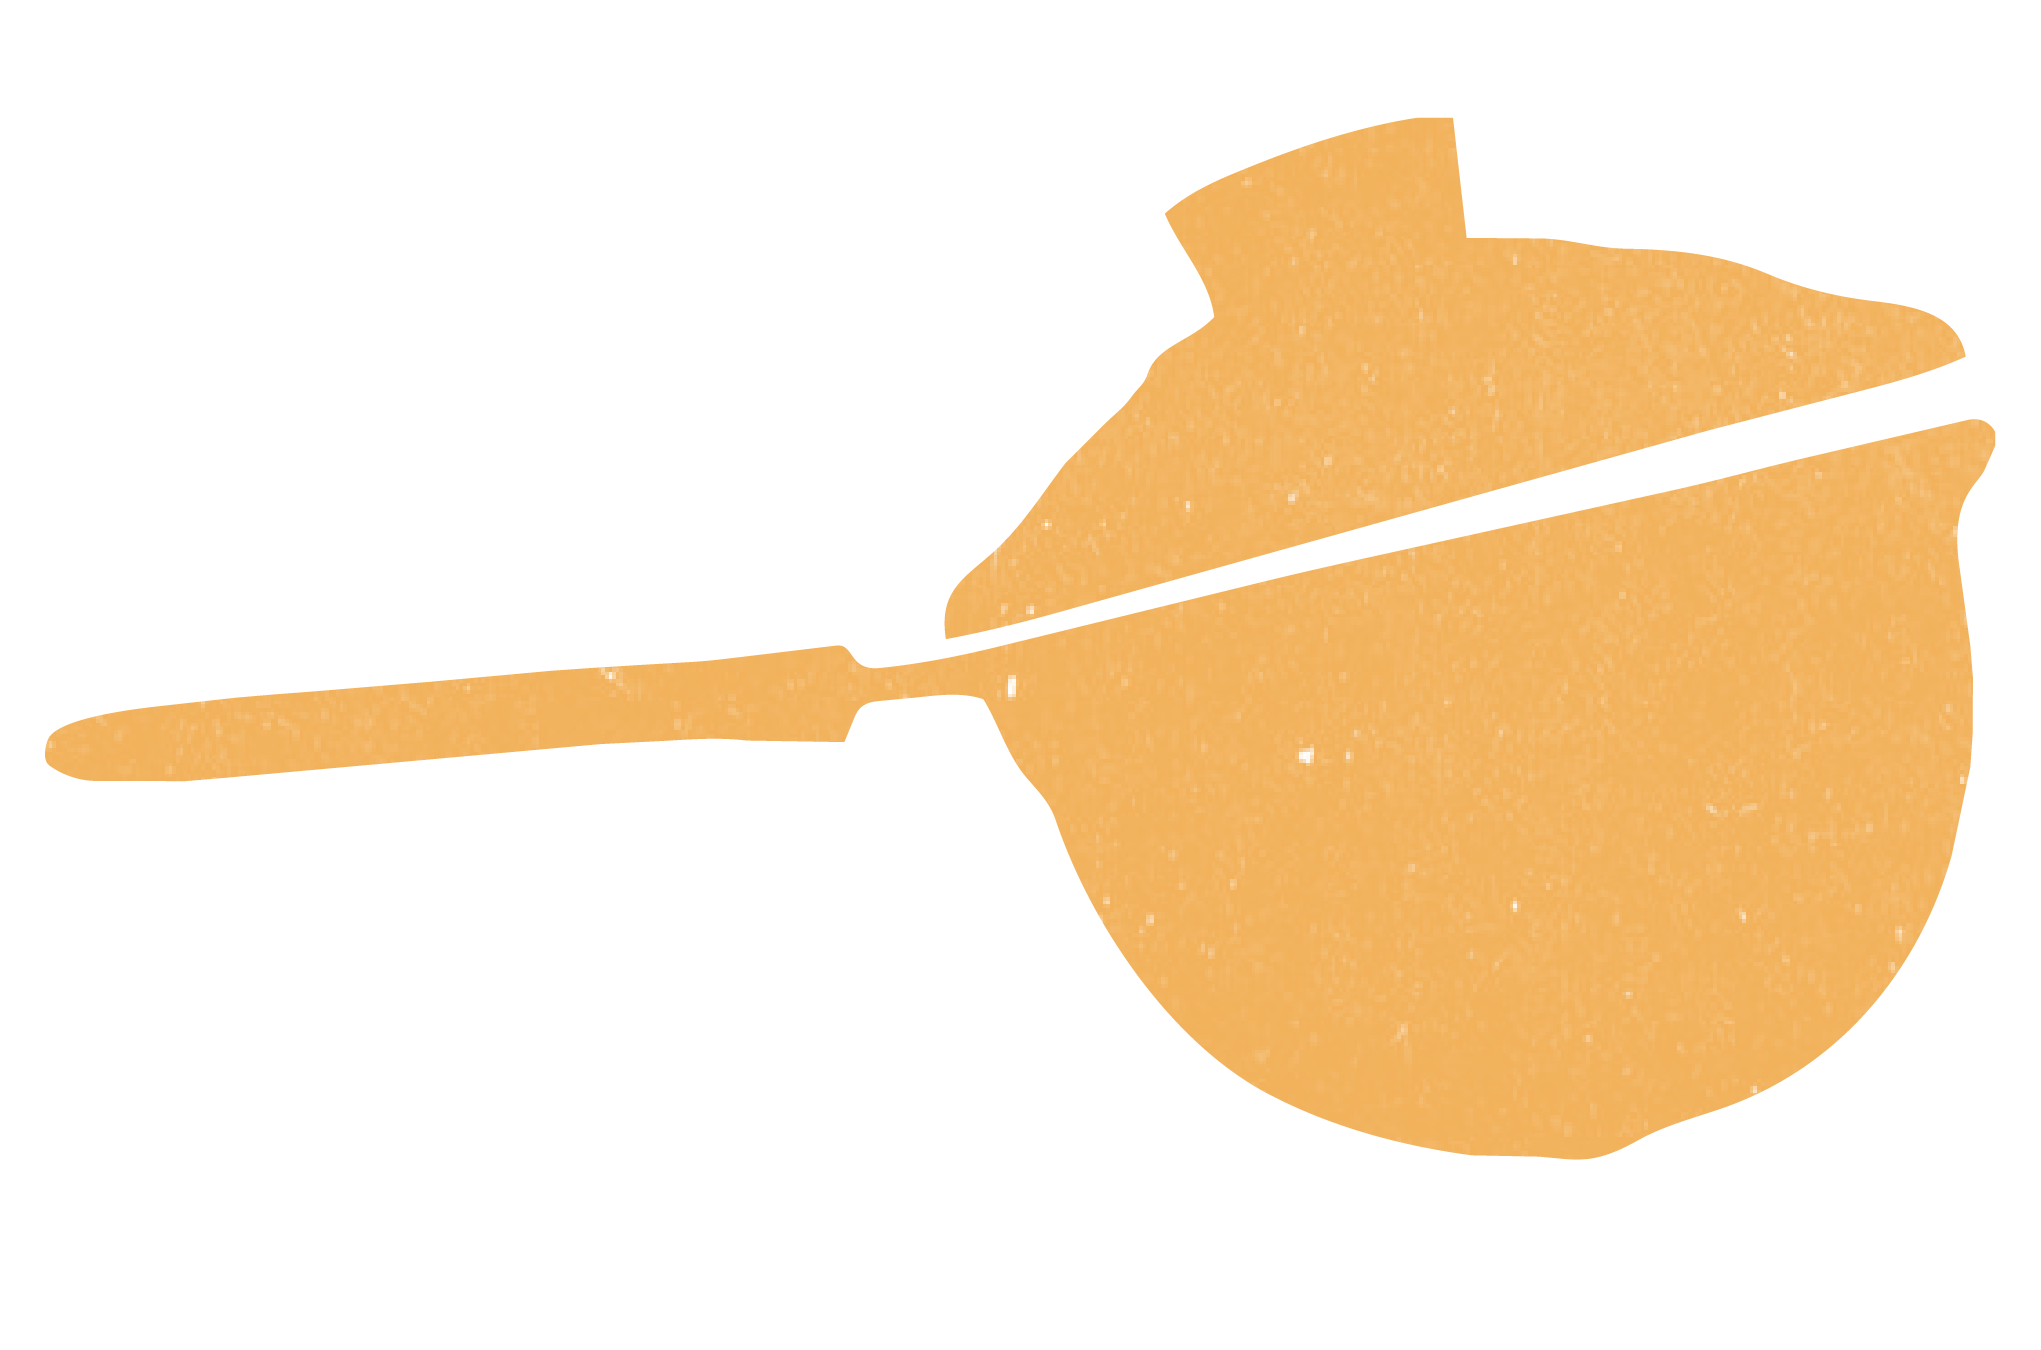
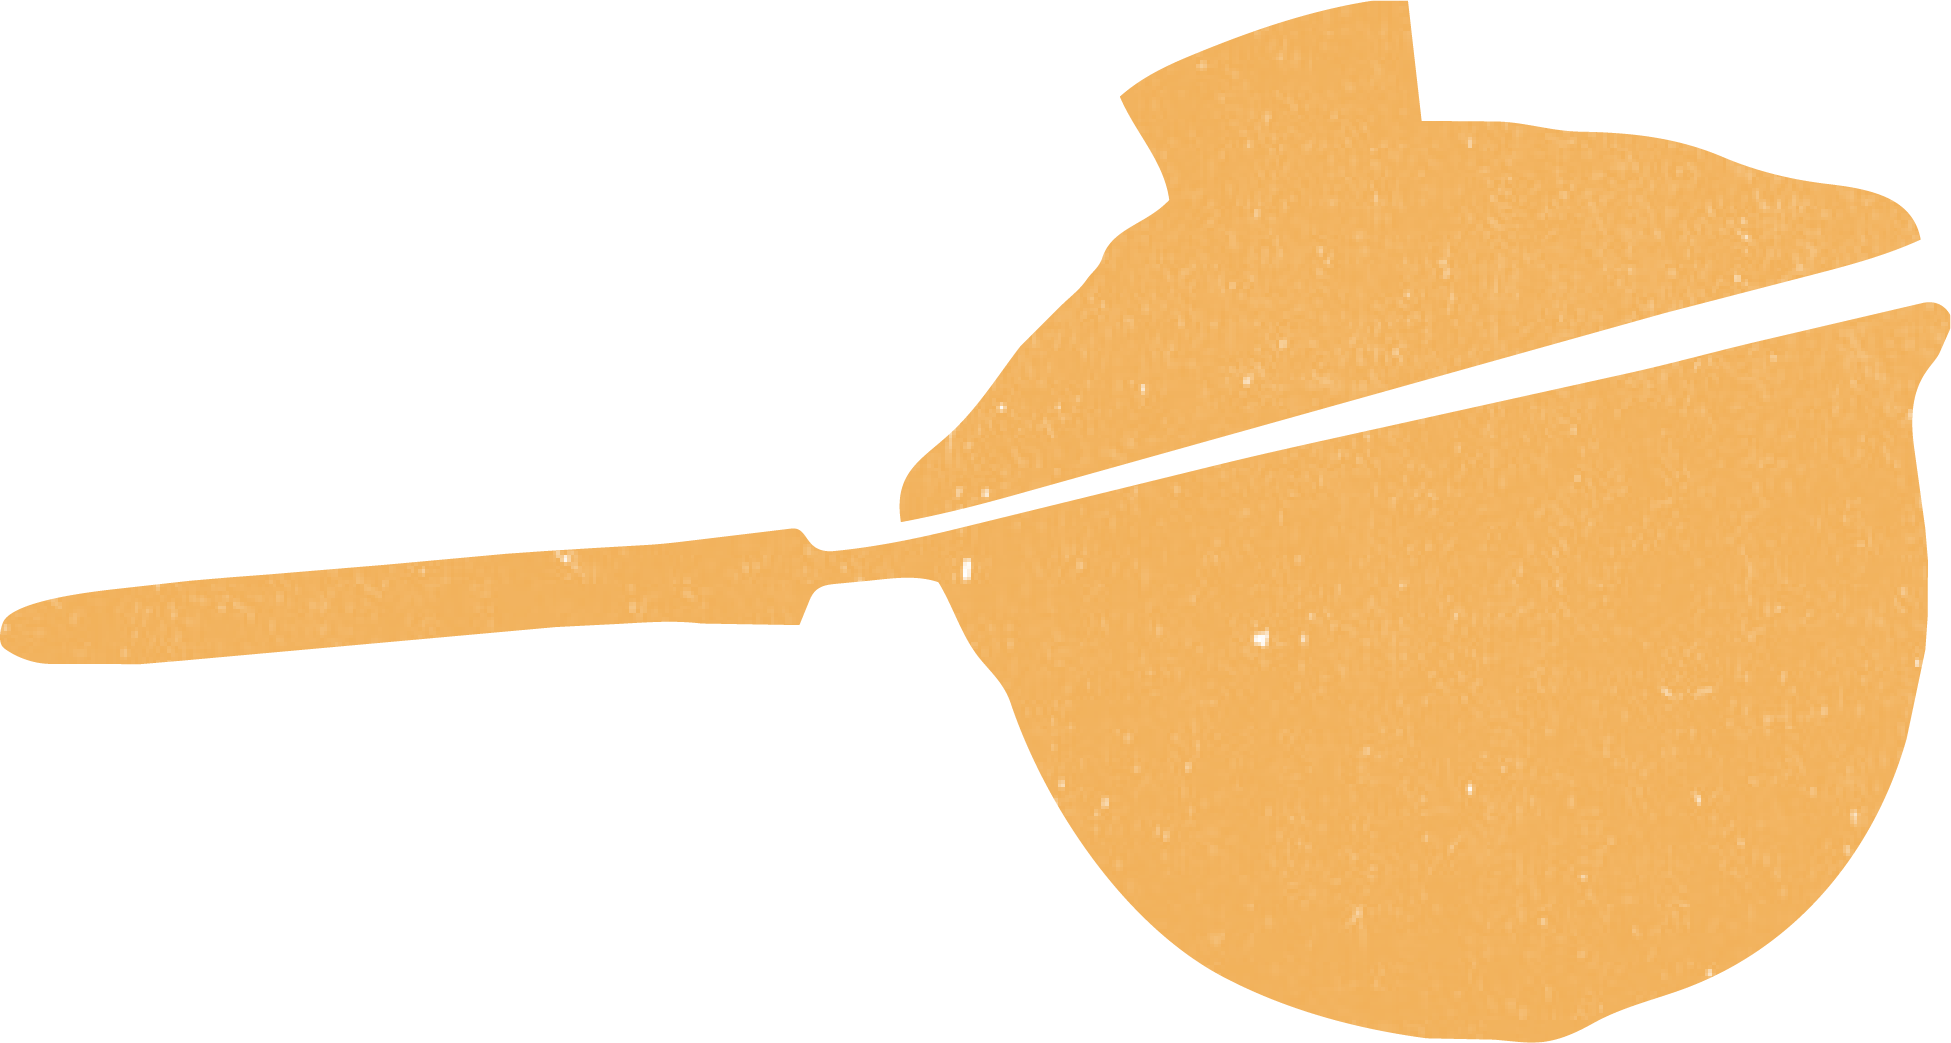
feat: topo da hero no desktop com texturas e avanço da edition (#28)
* refactor: update Hero component layout and remove unused imports

* feat: add translucent fava beans texture and update Hero component layout

* feat: add supporters intro with leaf plate

* feat: add brand invite sign to supporters

* feat: add BottomPanels, CashewCluster, ContentBand, SunflowerTexture, and TopPanels components

* refactor: simplify Hero component layout and comment out unused imports

* refactor: simplify Hero component structure and remove unnecessary div

* refactor: update layout and structure of Hero, ContentBand, and Edition components

* refactor: restructure Edition component layout and remove unnecessary div

* refactor: enhance layout of Edition, BottomPanels, and ContentBand components

* refactor: remove unnecessary z-index from BottomPanels and ContentBand components

* chore: update cutlery illustration image

* refactor: update z-index and height of BottomPanels and fix layout in Edition component

* style: add damasco color variable to theme

* style: add z-index and scale to logo image in ContentBand

* feat: add TablePanel component with layout and content

* style: add overflow-x-hidden to main div in Home component

* feat: add WideButton component and replace link with button in ContentBand

* feat: add Nunito font and update layout and globals for font integration

* chore: update pot illustration image

* style: resize hero panels and reposition illustrations

* style: adjust content band offset and fava beans texture zoom
[…]

Changed region(s): [[0.0, 0.0, 1.0, 1.0], [0.8611, 0.3375, 0.8919, 0.3682]]

diff --git a/components/sections/hero/ContentBand.tsx b/components/sections/hero/ContentBand.tsx
@@ -1,0 +1,61 @@
+import Image from "next/image";
+
+import { MainButton } from "@/components/ui/MainButton";
+import { hero } from "@/content/hero";
+
+export function ContentBand() {
+  return (
+    <div className="absolute right-0 z-60 grid min-h-128 w-full -translate-y-[calc(2.5rem+5%)] grid-cols-1 gap-6 px-6 py-8 sm:w-6/7 sm:grid-cols-2 sm:gap-8 sm:px-8 md:min-h-144 md:px-10 md:py-10 lg:flex lg:w-6/7 lg:gap-0 lg:px-0 lg:py-0">
+      <div
+        aria-hidden
+        className="absolute inset-0 -z-10 bg-cenoura filter-[url(#hero-panels-texture)]"
+      />
+      <div className="pointer-events-none absolute inset-0 -z-10 bg-[url('/images/textures/fava-beans.png')] bg-size-[28.75%_auto] bg-center bg-repeat opacity-[0.06]"></div>
+      <div className="col-span-1 flex h-32 items-center justify-center sm:col-span-2 sm:h-40 md:h-48 lg:col-span-1 lg:h-auto lg:w-[30%]">
+        <Image
+          src="/images/logo.png"
+          alt="Café com Case à Mesa"
+          width={800}
+          height={800}
+          className="h-full w-auto scale-110 object-contain"
+        />
+      </div>
+      <article className="flex min-w-0 flex-col justify-between gap-6 text-pepino sm:px-2 md:gap-8 lg:w-[28%] lg:px-10 lg:py-16">
+        <h1 className="text-2xl leading-snug font-medium md:text-3xl">
+          {hero.lead.before}
+          <strong>{hero.lead.strong}</strong>
+          {hero.lead.after}
+        </h1>
+        <p className="font-alternates text-xl font-semibold italic md:text-2xl">
+          <span className="block text-left">{hero.tagline[0]}</span>
+          <span className="block text-right">{hero.tagline[1]}</span>
+        </p>
+      </article>
+      <article className="flex min-w-0 flex-col justify-between gap-6 text-sm text-pepino md:text-base lg:w-[24%] lg:gap-8 lg:px-10 lg:py-16">
+        <div className="space-y-4">
+          {hero.description.map((paragraph) => (
+            <p key={paragraph.slice(0, 24)} className="font-bold">
+              {paragraph}
+            </p>
+          ))}
+        </div>
+        <MainButton
+          href={hero.instagramUrl}
+          target="_blank"
+          rel="noopener noreferrer"
+        >
+          {hero.cta}
+        </MainButton>
+      </article>
+      <div className="relative hidden items-start justify-center overflow-hidden lg:flex lg:w-[18%] lg:px-4 lg:py-16">
+        <Image
+          src="/images/illustrations/kettle.png"
+          alt=""
+          width={400}
+          height={400}
+          className="h-[120%] w-auto max-w-none translate-x-[30%]"
+        />
+      </div>
+    </div>
+  );
+}

diff --git a/components/sections/edition/TablePanel.tsx b/components/sections/edition/TablePanel.tsx
@@ -1,0 +1,33 @@
+import Image from "next/image";
+
+import { edition } from "@/content/edition";
+
+export function TablePanel() {
+  return (
+    <div className="relative w-full lg:absolute lg:-top-75 lg:-right-18 lg:bottom-11/21 lg:w-5/7">
+      <aside className="relative flex h-full w-full items-center overflow-hidden py-10 pl-6 [clip-path:polygon(0_0,100%_0,100%_100%,1.5rem_100%)] lg:py-0 lg:pl-25 lg:[clip-path:polygon(0_0,100%_0,100%_100%,6rem_100%)]">
+        <div
+          aria-hidden
+          className="absolute inset-0 bg-pepino filter-[url(#edition-texture)] [clip-path:polygon(0_0,100%_0,100%_100%,1.5rem_100%)] lg:[clip-path:polygon(0_0,100%_0,100%_100%,6rem_100%)]"
+        />
+        <article className="relative flex flex-col gap-6 pr-4 text-damasco lg:w-4/7">
+          <h3 className="font-alternates text-4xl font-black lg:text-5xl">
+            {edition.tableTitle}
+          </h3>
+          <div className="grid grid-cols-1 gap-6 text-lg font-semibold md:grid-cols-2 lg:flex lg:gap-15 lg:text-xl">
+            {edition.tableParagraphs.map((paragraph) => (
+              <p key={paragraph.slice(0, 24)}>{paragraph}</p>
+            ))}
+          </div>
+        </article>
+      </aside>
+      <Image
+        src="/images/illustrations/cutlery.png"
+        alt=""
+        width={796}
+        height={1178}
+        className="absolute right-0 bottom-0 hidden h-[80%] w-auto max-w-none translate-x-[8%] translate-y-[5%] lg:block"
+      />
+    </div>
+  );
+}

diff --git a/components/sections/hero/BottomPanels.tsx b/components/sections/hero/BottomPanels.tsx
@@ -1,0 +1,36 @@
+import Image from "next/image";
+
+export function BottomPanels() {
+  return (
+    <div className="absolute bottom-0 z-20 flex h-1/3 w-full items-end">
+      <div className="relative h-[110%] w-1/4">
+        <div
+          aria-hidden
+          className="absolute inset-0 bg-azul [clip-path:polygon(0_1.5rem,100%_0,100%_100%,0_100%)] [filter:url(#hero-panels-texture)]"
+        />
+        <Image
+          src="/images/illustrations/fish.png"
+          alt=""
+          width={600}
+          height={400}
+          className="absolute inset-0 m-auto h-4/7 w-[72%] translate-y-10 -rotate-10 object-contain"
+        />
+      </div>
+      <div className="absolute left-3/13 h-[82.5%] w-1/3">
+        <div
+          aria-hidden
+          className="absolute inset-0 bg-tomate [clip-path:polygon(0_0,100%_3.5rem,100%_100%,0_100%)] [filter:url(#hero-panels-texture)]"
+        />
+        <div className="absolute inset-0 overflow-hidden [clip-path:polygon(0_0,100%_3.5rem,100%_100%,0_100%)]">
+          <Image
+            src="/images/illustrations/pot.png"
+            alt=""
+            width={600}
+            height={400}
+            className="absolute top-1/3 right-10 h-[69.2%] w-auto translate-x-[-15%] translate-y-[-15%] rotate-8 object-contain"
+          />
+        </div>
+      </div>
+    </div>
+  );
+}

diff --git a/components/sections/hero/Hero.tsx b/components/sections/hero/Hero.tsx
@@ -1,10 +1,30 @@
-import { hero } from "@/content/hero";
+import { BigButton } from "@/components/ui/BigButton";
+import { FaqLettering } from "@/components/ui/FaqLettering";
+import { TextureFilter } from "@/components/ui/TextureFilter";
+import { BottomPanels } from "./BottomPanels";
+import { ContentBand } from "./ContentBand";
+import { SunflowerTexture } from "./SunflowerTexture";
+import { TopPanels } from "./TopPanels";
 
-// Hero: issues #5 (desktop), #12 (mobile)
 export function Hero() {
   return (
-    <section id="hero">
-      <p>{hero.title}</p>
+    <section className="relative flex min-h-[max(120vh,64rem)] w-full items-center overflow-hidden">
+      <SunflowerTexture />
+      <TopPanels />
+      <BottomPanels />
+      <div className="absolute top-10 right-0 z-30">
+        <BigButton href="/faq" aria-label="FAQ">
+          <span className="block size-full text-pepino group-hover:text-areia group-focus-visible:text-areia">
+            <FaqLettering />
+          </span>
+        </BigButton>
+      </div>
+      <ContentBand />
+      <svg aria-hidden className="absolute size-0">
+        <defs>
+          <TextureFilter id="hero-panels-texture" radius={10} size={16} />
+        </defs>
+      </svg>
     </section>
   );
 }

diff --git a/content/edition.ts b/content/edition.ts
@@ -1,4 +1,17 @@
 // 13th Edition copy. Text shown on the site stays in Portuguese.
 export const edition = {
   title: "13ª Edição",
+  tableTitle: "A mesa está posta!",
+  tableParagraphs: [
+    "Em sua 13ª edição, o Café com Case parte do Direito Humano à Alimentação Adequada para discutir como a comunicação constrói narrativas e sentidos sobre o acesso à alimentação.",
+    "A proposta é olhar para além do prato e perceber as histórias, os territórios e as pessoas que sustentam cada refeição.",
+  ],
+  beanHighlight: "mas a conversa vai muito além do que chega ao prato.",
+  beanText:
+    "O conceito da edição convida a pensar: o que existe por trás de cada refeição? A partir desse questionamento, buscamos levar o público a entender o que acontece por trás de cada refeição, cada escolha e cada realidade.",
+  ctaHighlight: "alimentação, o direito e a cultura",
+  ctaText:
+    "E não acaba por aqui! Descubra o que mais acontece no Café com Case.",
+  cta: "Conheça mais",
+  instagramUrl: "https://www.instagram.com/cafecomcase/",
 };

diff --git a/components/sections/edition/BeanPanel.tsx b/components/sections/edition/BeanPanel.tsx
@@ -1,0 +1,25 @@
+import Image from "next/image";
+
+import { edition } from "@/content/edition";
+
+export function BeanPanel() {
+  return (
+    <div className="relative w-full overflow-hidden lg:absolute lg:top-[30%] lg:left-0 lg:h-[70%] lg:w-[60%] lg:overflow-visible">
+      <article className="relative z-10 flex flex-col gap-6 p-6 text-damasco lg:absolute lg:top-[15%] lg:right-[18%] lg:left-auto lg:w-[48%] lg:translate-x-[5%] lg:gap-14 lg:p-0">
+        <p className="font-alternates text-3xl font-black lg:text-5xl">
+          {edition.beanHighlight}
+        </p>
+        <p className="text-lg font-semibold lg:w-[67.5%] lg:self-end lg:text-left">
+          {edition.beanText}
+        </p>
+      </article>
+      <Image
+        src="/images/illustrations/brown-shape.png"
+        alt=""
+        width={1189}
+        height={1174}
+        className="h-72 w-full object-cover object-center lg:h-full lg:max-w-none lg:-translate-x-1/10 lg:translate-y-[5%] lg:scale-120 lg:-rotate-8 lg:zoom-[1.1]"
+      />
+    </div>
+  );
+}

diff --git a/components/sections/hero/TopPanels.tsx b/components/sections/hero/TopPanels.tsx
@@ -1,0 +1,30 @@
+import Image from "next/image";
+
+import { CashewCluster } from "./CashewCluster";
+
+export function TopPanels() {
+  return (
+    <div className="absolute top-0 left-0 flex h-full w-full">
+      <div className="relative h-full w-1/6">
+        <div
+          aria-hidden
+          className="absolute inset-0 bg-pepino [filter:url(#hero-panels-texture)]"
+        />
+        <CashewCluster />
+      </div>
+      <div className="relative h-full w-1/3">
+        <div
+          aria-hidden
+          className="absolute inset-0 bg-cafe [filter:url(#hero-panels-texture)]"
+        />
+        <Image
+          src="/images/illustrations/cup.png"
+          alt=""
+          width={400}
+          height={400}
+          className="absolute -top-4 right-6 h-[25.2%] w-[37.8%] -scale-x-100 object-contain"
+        />
+      </div>
+    </div>
+  );
+}

diff --git a/components/sections/edition/Edition.tsx b/components/sections/edition/Edition.tsx
@@ -1,10 +1,19 @@
-import { edition } from "@/content/edition";
+import { BeanPanel } from "./BeanPanel";
+import { CtaArticle } from "./CtaArticle";
+import { EditionHeading } from "./EditionHeading";
+import { TablePanel } from "./TablePanel";
 
-// 13th Edition: issues #6 (desktop), #13 (mobile)
 export function Edition() {
   return (
     <section id="edition">
-      <p>{edition.title}</p>
+      <div className="flex w-full px-4 pt-12 md:px-10 lg:px-18 lg:pt-24">
+        <div className="relative left-1/2 grid w-screen -translate-x-1/2 grid-cols-1 gap-12 bg-areia px-4 pt-10 pb-16 overflow-b-clip md:px-10 lg:flex lg:min-h-[max(160vh,90rem)] lg:gap-0 lg:pr-18 lg:pb-26">
+          <EditionHeading />
+          <TablePanel />
+          <BeanPanel />
+          <CtaArticle />
+        </div>
+      </div>
     </section>
   );
 }

diff --git a/components/sections/hero/CashewCluster.tsx b/components/sections/hero/CashewCluster.tsx
@@ -1,0 +1,29 @@
+import Image from "next/image";
+
+export function CashewCluster() {
+  return (
+    <div className="absolute top-0 h-1/2 w-full">
+      <Image
+        src="/images/illustrations/cashew.png"
+        alt=""
+        width={200}
+        height={200}
+        className="absolute top-[8%] left-1/2 w-[34%] -translate-x-1/2 -rotate-15 object-contain"
+      />
+      <Image
+        src="/images/illustrations/cashew.png"
+        alt=""
+        width={160}
+        height={160}
+        className="absolute top-[32%] left-[10%] w-[29.7%] rotate-55 object-contain"
+      />
+      <Image
+        src="/images/illustrations/cashew.png"
+        alt=""
+        width={140}
+        height={140}
+        className="absolute top-[54%] left-[24%] w-[23.1%] -rotate-45 object-contain"
+      />
+    </div>
+  );
+}

diff --git a/app/globals.css b/app/globals.css
@@ -6,6 +6,7 @@
   --color-cafe-escuro: #422911;
   --color-cenoura: #f2b15a;
   --color-areia: #ffbb5c;
+  --color-damasco: #ffb353;
   --color-amarelo: #ffb700;
   --color-laranja: #ff6417;
   --color-tomate: #af0101;
@@ -16,4 +17,22 @@
   --font-sans: var(--font-montserrat);
   --font-alternates: var(--font-montserrat-alternates);
   --font-gluten: var(--font-gluten);
+  --font-nunito: var(--font-nunito);
+}
+
+@layer base {
+  /* Textura global translúcida (fava beans) sobre todos os componentes. */
+  body::before {
+    content: "";
+    position: fixed;
+    inset: 0;
+    z-index: 50;
+    background: url("/images/textures/fava-beans.png") center / 23% auto repeat;
+    opacity: 0.06;
+    pointer-events: none;
+  }
+}
+
+@utility overflow-b-clip {
+  clip-path: inset(-100% -100% -20% -100%);
 }

diff --git a/components/sections/edition/CtaArticle.tsx b/components/sections/edition/CtaArticle.tsx
@@ -1,0 +1,22 @@
+import { MainButton } from "@/components/ui/MainButton";
+import { edition } from "@/content/edition";
+
+export function CtaArticle() {
+  return (
+    <article className="relative z-10 flex w-full flex-col gap-8 text-pepino lg:mt-10 lg:ml-auto lg:w-1/5 lg:self-end">
+      <p className="font-alternates text-3xl leading-tight font-medium italic lg:text-[2.5rem]">
+        Aqui, quando falamos de
+        <span className="font-extrabold"> {edition.ctaHighlight} </span>
+        também entram na conversa.
+      </p>
+      <p className="max-w-5/6 text-xl font-medium">{edition.ctaText}</p>
+      <MainButton
+        href={edition.instagramUrl}
+        target="_blank"
+        rel="noopener noreferrer"
+      >
+        {edition.cta}
+      </MainButton>
+    </article>
+  );
+}

diff --git a/app/layout.tsx b/app/layout.tsx
@@ -2,7 +2,7 @@ import type { Metadata } from "next";
 
 import { MotionProvider } from "@/components/MotionProvider";
 
-import { gluten, montserrat, montserratAlternates } from "./fonts";
+import { gluten, montserrat, montserratAlternates, nunito } from "./fonts";
 import "./globals.css";
 
 export const metadata: Metadata = {
@@ -14,7 +14,7 @@ export default function RootLayout({ children }: LayoutProps<"/">) {
   return (
     <html
       lang="pt-BR"
-      className={`${montserrat.variable} ${montserratAlternates.variable} ${gluten.variable} antialiased`}
+      className={`${montserrat.variable} ${montserratAlternates.variable} ${gluten.variable} ${nunito.variable} antialiased`}
     >
       <body>
         <MotionProvider>{children}</MotionProvider>
